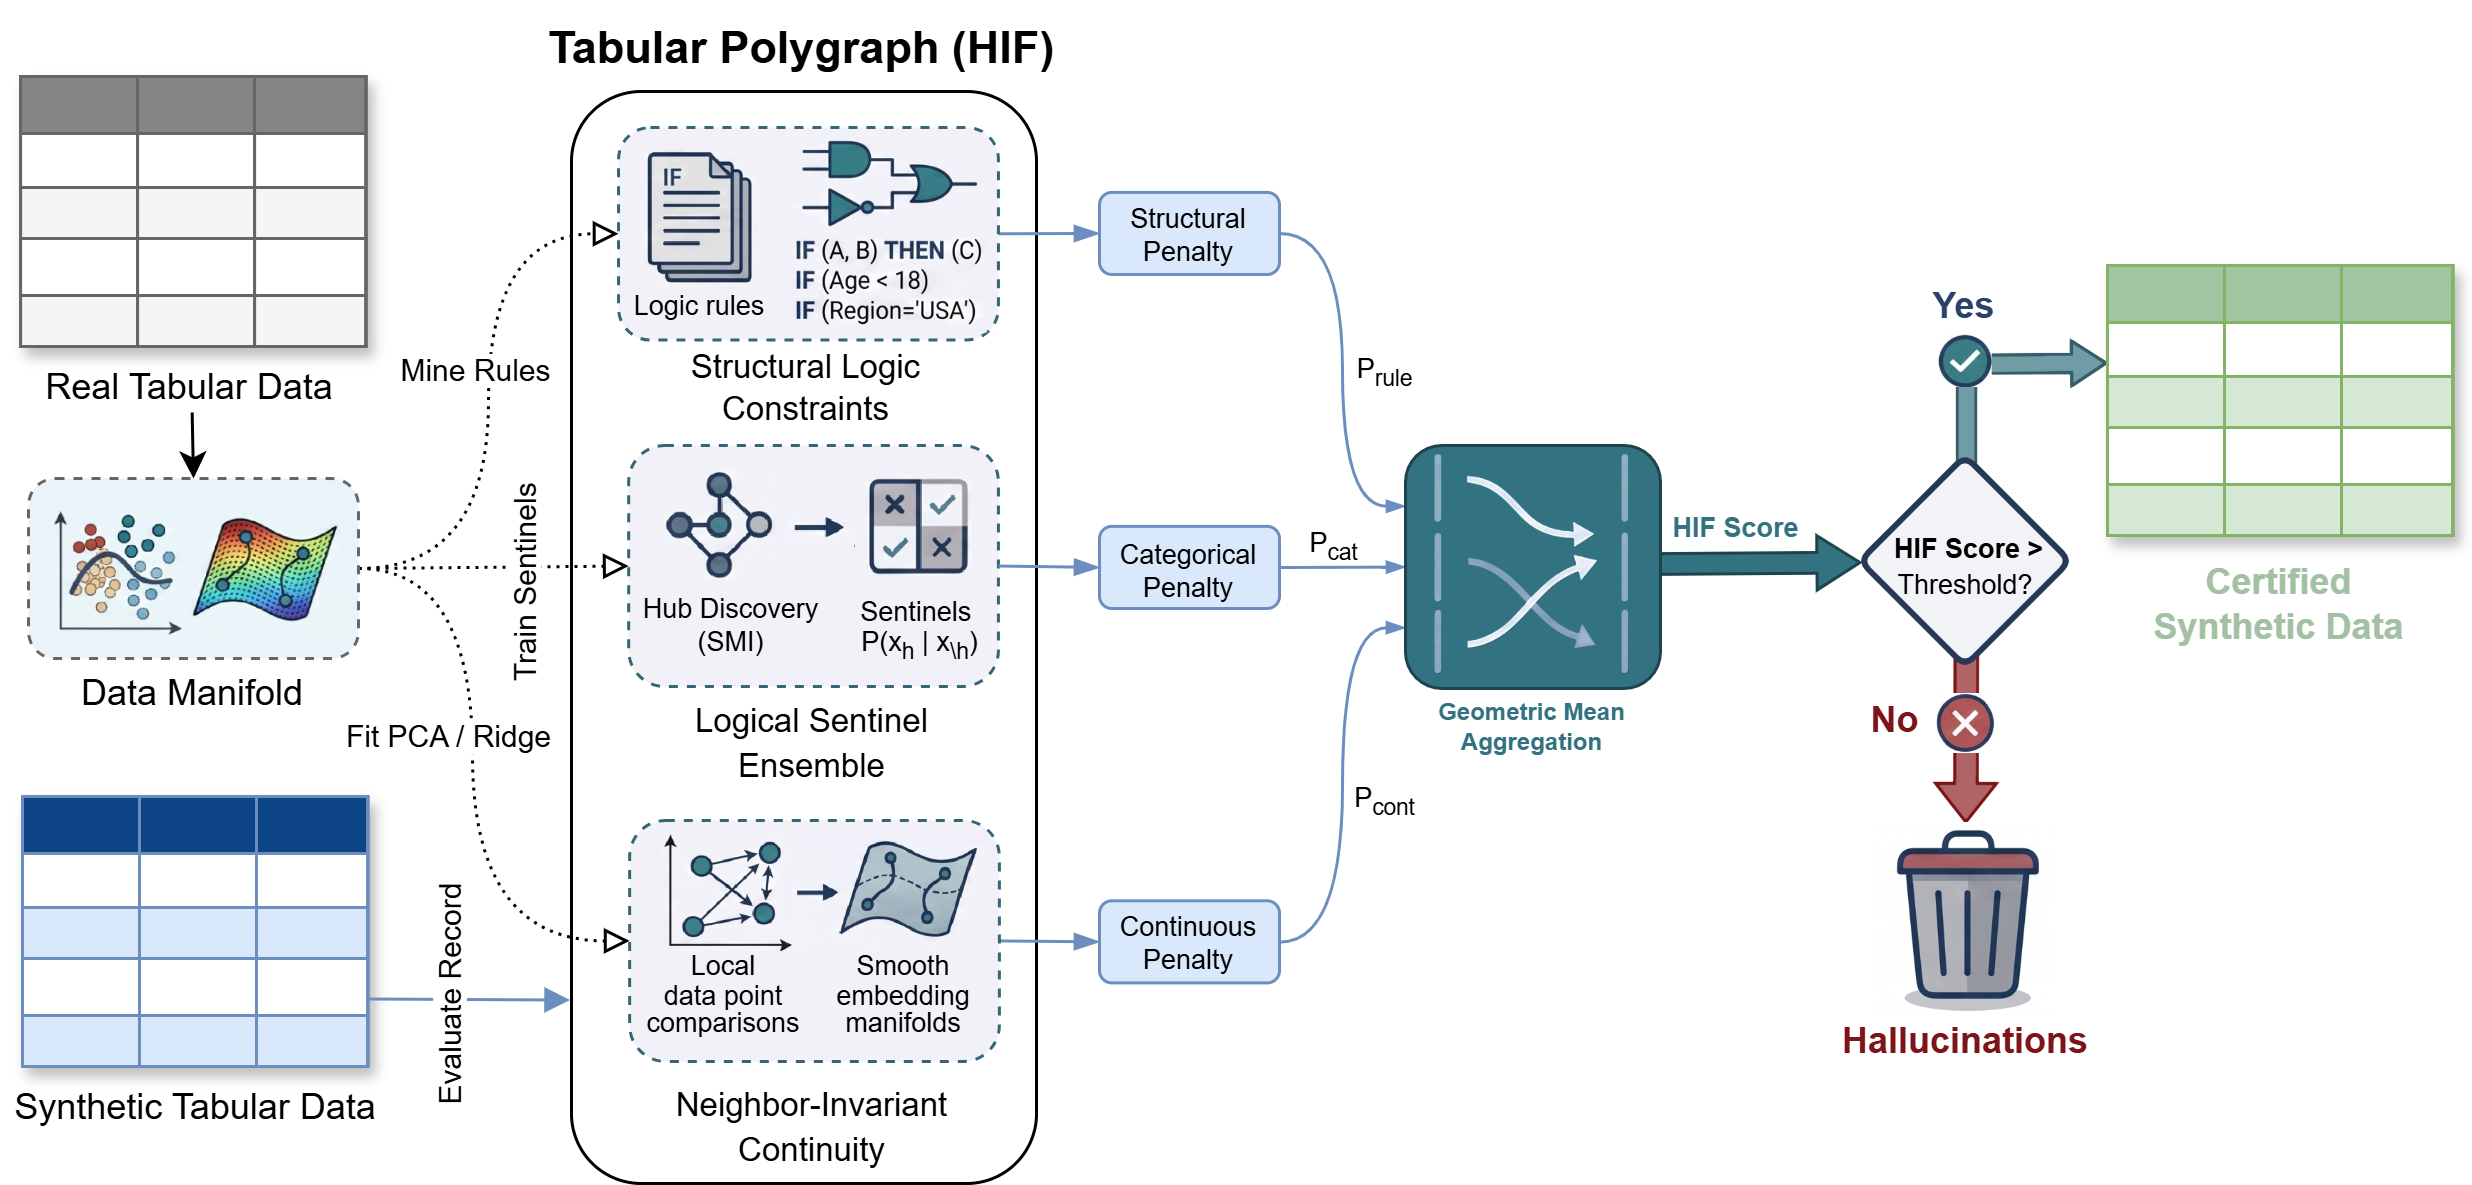
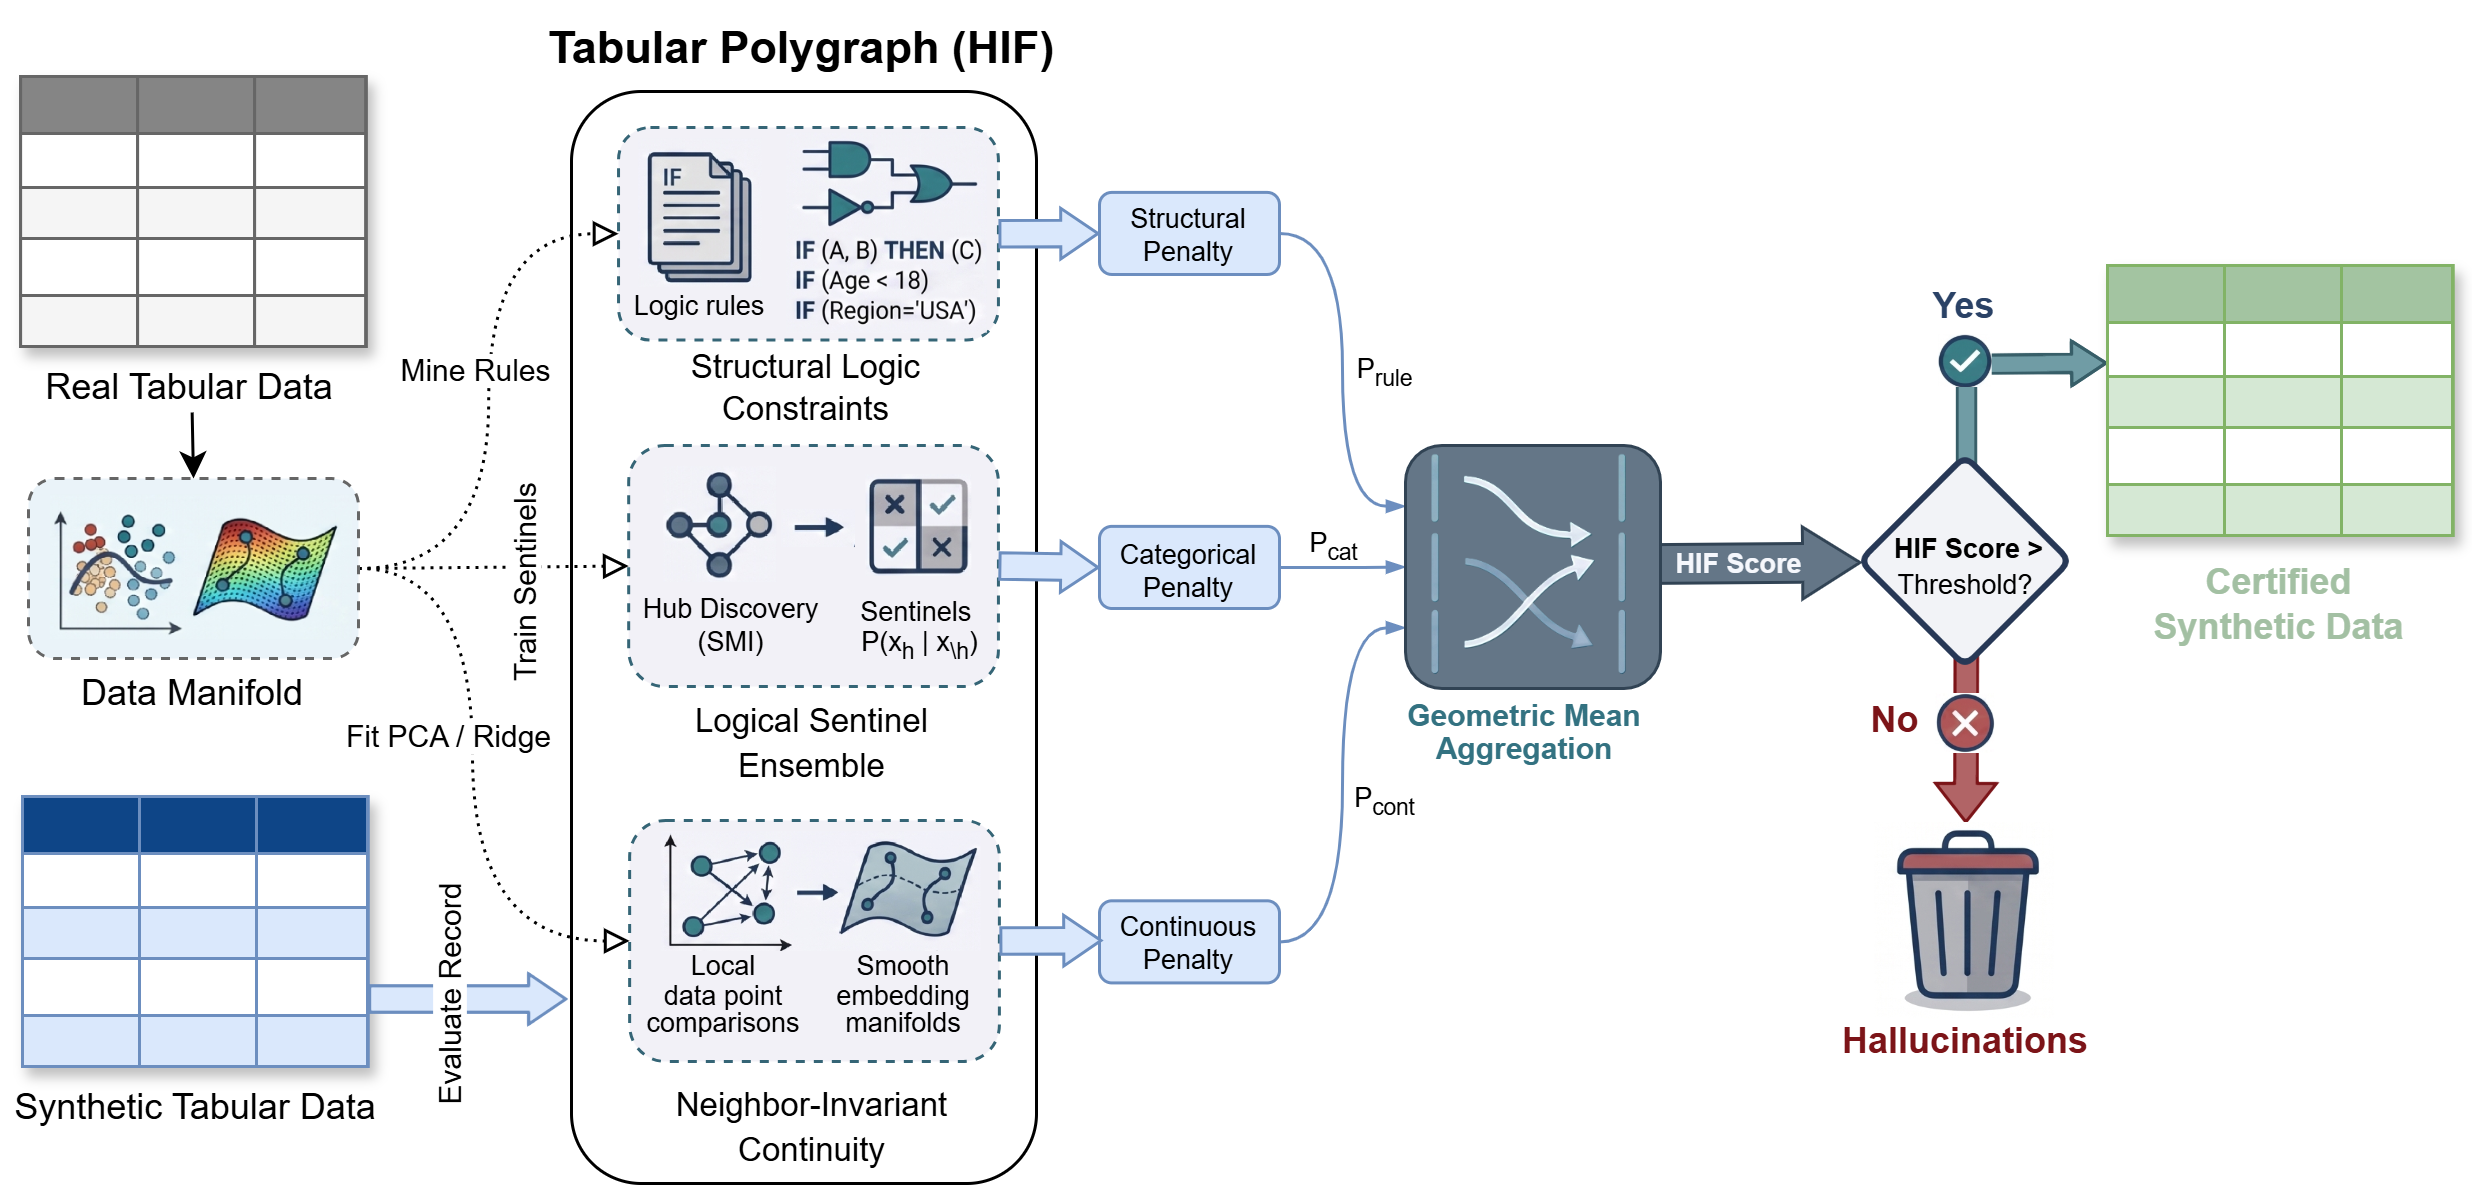
feat: add representation audit and TVD calculation to HIF validation script and update architecture diagram

diff --git a/scripts/04_hif_validation.py b/scripts/04_hif_validation.py
@@ -148,11 +148,39 @@ def _antecedent_features_from_rule(rule: dict) -> set[str]:
 
     ant_repr = rule.get("antecedent_repr")
     if ant_repr:
-        for clause in str(ant_repr).split(" AND "):
-            if "=" in clause:
-                features.add(clause.split("=", 1)[0].strip())
-
+        # Simple split by & and =
+        parts = str(ant_repr).split(" & ")
+        for p in parts:
+            if "=" in p:
+                features.add(p.split("=")[0].strip())
     return features
+
+
+def _calculate_tvd(p: pd.Series, q: pd.Series) -> float:
+    """Total Variation Distance between two categorical distributions."""
+    all_cats = sorted(set(p.index) | set(q.index))
+    p_v = p.reindex(all_cats, fill_value=0.0).values
+    q_v = q.reindex(all_cats, fill_value=0.0).values
+    return 0.5 * np.sum(np.abs(p_v - q_v))
+
+
+def _representation_audit(
+    syn_full: pd.DataFrame,
+    syn_filtered: pd.DataFrame,
+    sensitive_cols: list[str],
+) -> dict[str, float]:
+    """Audit demographic drift after filtering by Integrity Frontier."""
+    results = {}
+    if sensitive_cols and syn_filtered.empty:
+        return dict.fromkeys(sensitive_cols, 1.0)
+
+    for col in sensitive_cols:
+        if col not in syn_full.columns:
+            continue
+        p = syn_full[col].value_counts(normalize=True)
+        q = syn_filtered[col].value_counts(normalize=True)
+        results[f"tvd_{col}"] = _calculate_tvd(p, q)
+    return results
 
 
 def _rule_involved_features(rule: dict) -> set[str]:
@@ -278,6 +306,15 @@ def _evaluate_once(
         verbose=False,
     )
 
+    # Integrity Frontier: High-integrity subset (e.g., Row Penalty < 0.5)
+    syn_filtered = syn[hif["row_penalties"] < 0.5]
+
+    # Sensitive attributes for Fairness Audit
+    sensitive_candidates = ["SEX", "RAC1P", "race", "gender", "age_bin"]
+    sensitive_cols = [c for c in sensitive_candidates if c in syn.columns]
+    fairness_results = _representation_audit(syn, syn_filtered, sensitive_cols)
+    mean_tvd = np.mean(list(fairness_results.values())) if fairness_results else 0.0
+
     rules = rule_violation_score(
         real,
         syn,
@@ -325,6 +362,7 @@ def _evaluate_once(
         "joint_score": float(joint),
         "utility_ratio": utility_ratio,
         "dominant_feature_share": float(_feature_dominance_share(rules)),
+        "mean_representation_tvd": float(mean_tvd),
     }
 
 
@@ -406,6 +444,7 @@ def _compute_summary(df: pd.DataFrame, has_utility: bool) -> dict:
         "seed_stability": mean_hif_std <= 0.05,
         "feature_dominance": dominance_max <= 0.5,
         "practical_separability": separability_rate >= 0.6,
+        "representation_stability": float(df["mean_representation_tvd"].mean()) <= 0.1,
     }
 
     return {
@@ -423,6 +462,7 @@ def _compute_summary(df: pd.DataFrame, has_utility: bool) -> dict:
             "dominant_feature_share_mean": dominance_mean,
             "dominant_feature_share_max": dominance_max,
             "separability_rate": separability_rate,
+            "mean_representation_tvd": float(df["mean_representation_tvd"].mean()),
         },
     }
 
